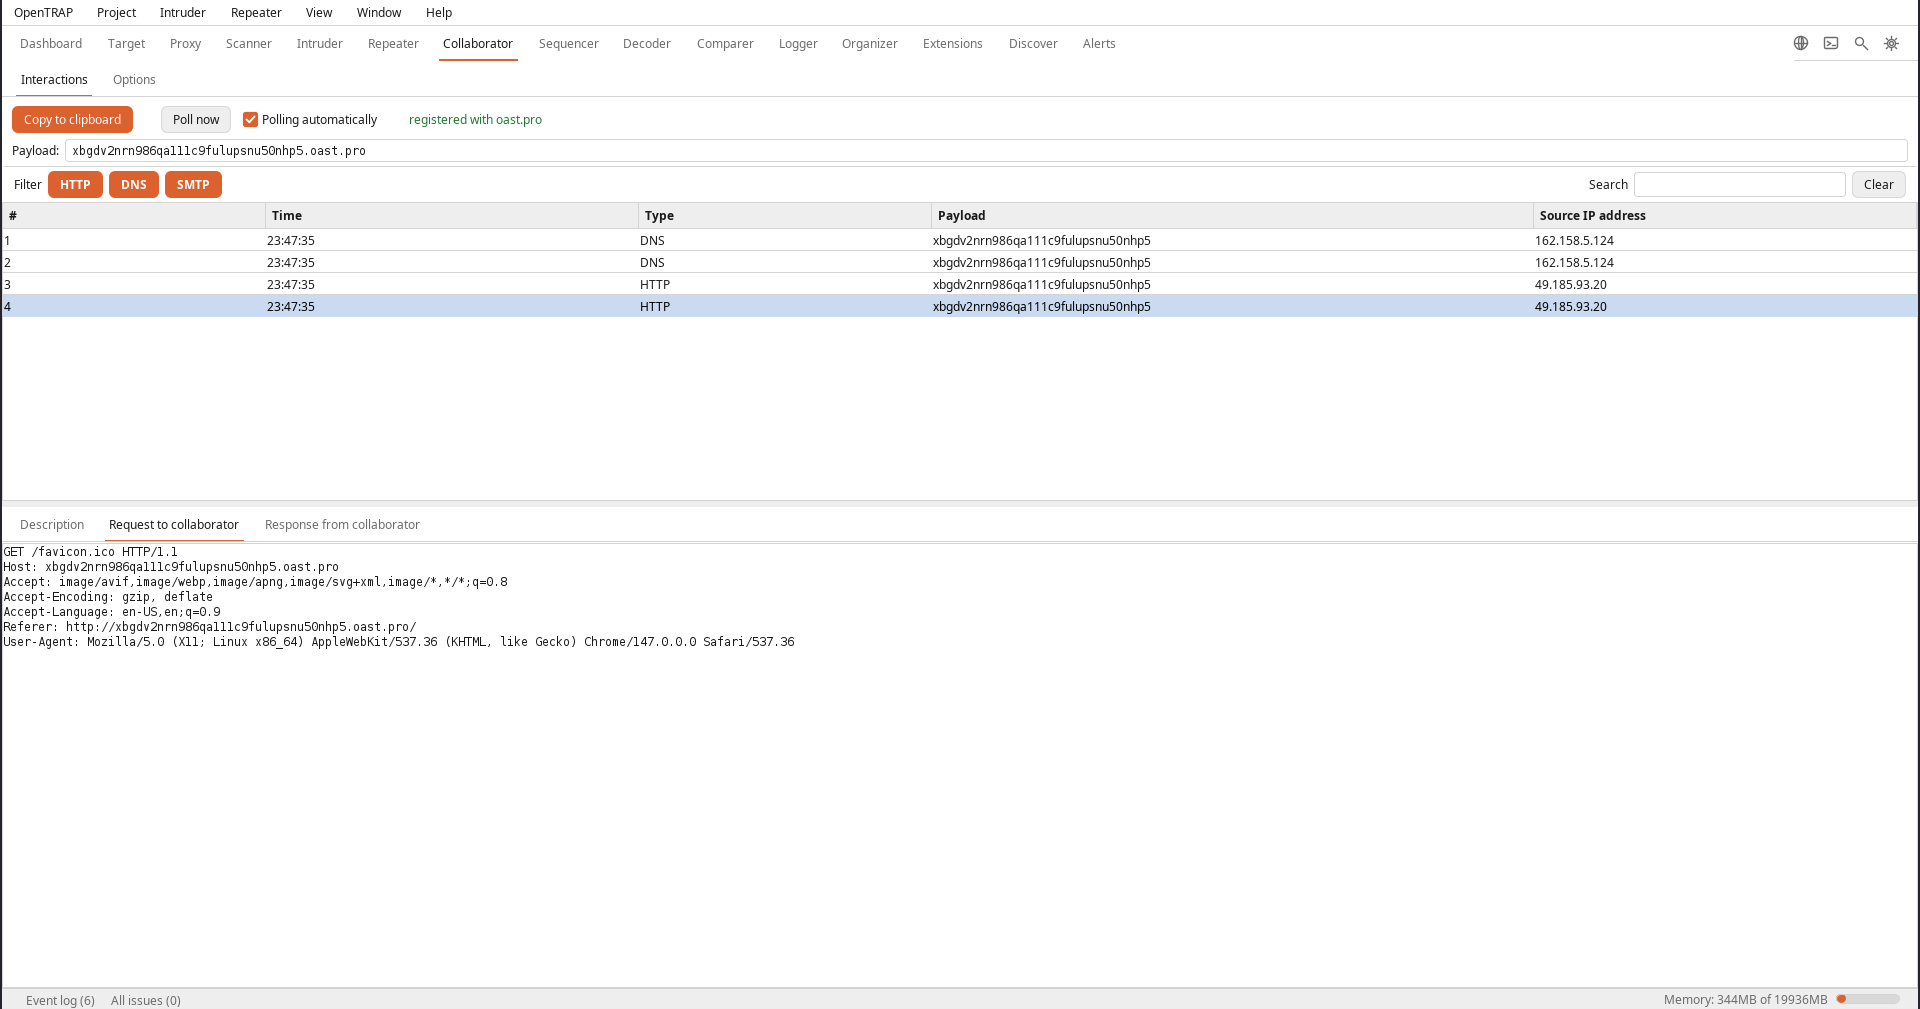
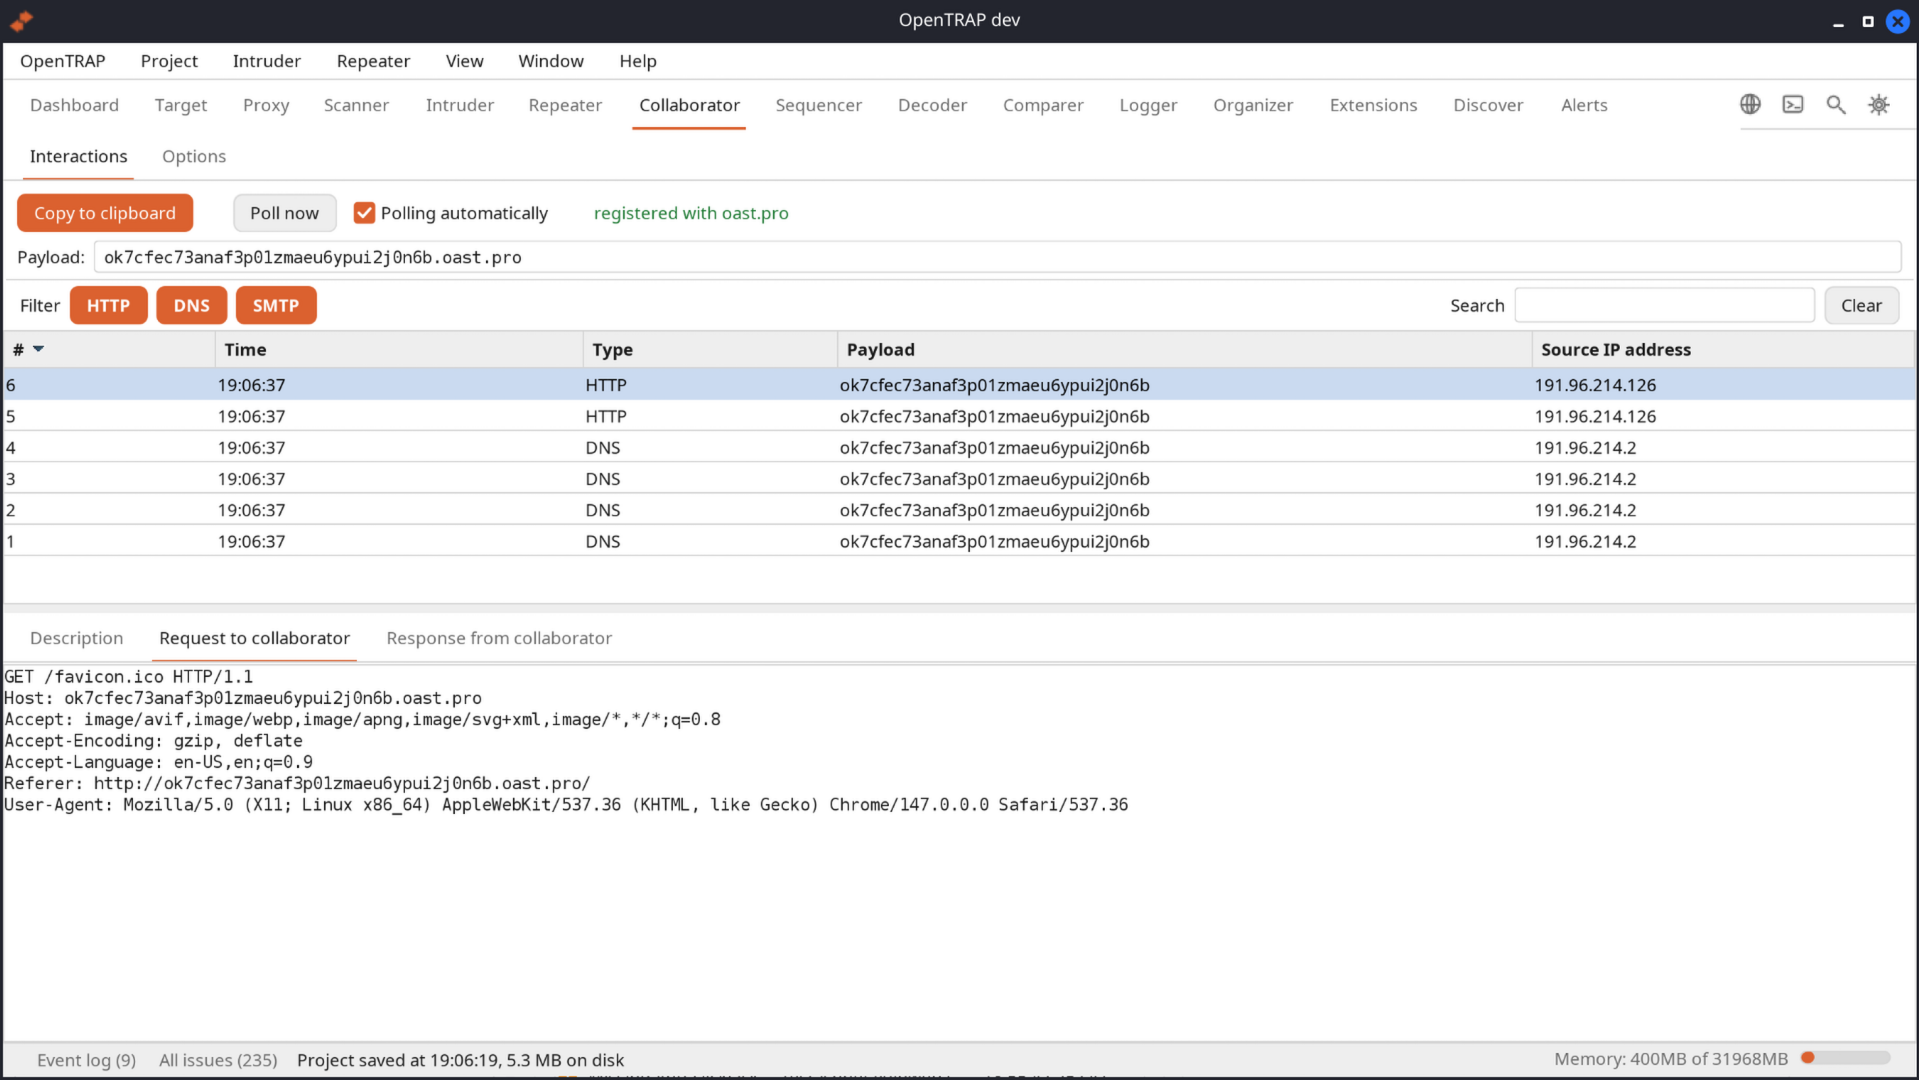
Refresh the screenshots and the feature text for this build
Six of the seven screenshots are retaken on the current build, full window
and unclipped: the dashboard with the labelled crawl-and-audit cards, the
site map with its padlocks and greyed out-of-scope hosts, the proxy history
newest first with the testing browser beside it, the Collaborator, the Logger
with audit traffic newest first, and the Decoder. The README and the site
describe the padlocks, the newest-first histories and the scope-bound engine.

diff --git a/docs/index.md b/docs/index.md
@@ -43,6 +43,7 @@ title: OpenTRAP
       <li><span class="ic">{% include check.html %}</span><span><b>Guided from the start</b>Open or create a project at launch, then drive crawl-and-audit scans through a step-by-step wizard.</span></li>
       <li><span class="ic">{% include check.html %}</span><span><b>Scan configurations that fit the job</b>Pick a tier from Lightweight to Deep, or build a Custom scan with full control over crawl depth, attack strength and which inputs are tested.</span></li>
       <li><span class="ic">{% include check.html %}</span><span><b>Scope that keeps the noise out</b>Add a host or path to scope from the site map and the proxy offers to stop recording everything else. Filters on the site map and the history hide out-of-scope, not-found and static content, and a scan crawls and attacks only what the scope covers.</span></li>
+      <li><span class="ic">{% include check.html %}</span><span><b>Newest first, everywhere</b>Every history in the suite, from the proxy and the Logger to Intruder results and Collaborator interactions, lists the latest entry at the top.</span></li>
       <li><span class="ic">{% include check.html %}</span><span><b>One self-contained file</b>Every release is a single Linux AppImage with its own runtime and the scan engine built in. Download it, run it, scan.</span></li>
       <li><span class="ic">{% include check.html %}</span><span><b>Genuinely open</b>Licensed under the GNU AGPL v3.0, so it stays open and hackable, with no licence gate on its core capabilities.</span></li>
       <li><span class="ic">{% include check.html %}</span><span><b>Built in the open</b>A <a href="https://github.com/opentrap/opentrap/blob/main/ROADMAP.md">public roadmap</a> with a reference code for every unbuilt feature, mirrored inside the app, and every contribution merged with full credit. No AI features, by design.</span></li>
@@ -56,11 +57,11 @@ title: OpenTRAP
     <p>Every tool lives in one window. Click any screenshot for the full-size image.</p>
   </div>
   <div class="gallery">
-    <a class="card" href="images/target.png"><img src="images/target.png" alt="Target tab: site map, request list and issues with a full advisory"><div class="cap"><b>Target</b><span>Site map and scope on the left, every request in the middle, every issue on the right with its advisory, request and response beside it.</span></div></a>
+    <a class="card" href="images/target.png"><img src="images/target.png" alt="Target tab: site map with a padlock per host, request list and issues with a full advisory"><div class="cap"><b>Target</b><span>Site map with a padlock per host and out-of-scope hosts greyed, every request in the middle, every issue on the right with its advisory, request and response beside it.</span></div></a>
     <a class="card" href="images/proxy.png"><img src="images/proxy.png" alt="Proxy tab with interception and the built-in browser"><div class="cap"><b>Proxy &amp; built-in browser</b><span>One click opens a bundled Chromium, already routed through the proxy and trusting its certificate authority. No certificate to install.</span></div></a>
     <a class="card" href="images/collaborator.png"><img src="images/collaborator.png" alt="Collaborator tab with captured out-of-band interactions"><div class="cap"><b>Collaborator</b><span>Generate a payload and watch the out-of-band DNS and HTTP callbacks arrive, each on record, so blind vulnerabilities are proven, not guessed.</span></div></a>
     <a class="card" href="images/intruder.png"><img src="images/intruder.png" alt="Intruder tab with a finished sniper attack and its results window"><div class="cap"><b>Intruder</b><span>Mark positions, pick an attack type, drive a payload set through them. The attack window shows status, length and timing per request.</span></div></a>
-    <a class="card" href="images/logger.png"><img src="images/logger.png" alt="Logger tab with a filterable table of every request"><div class="cap"><b>Logger</b><span>A complete, filterable record of every request OpenTRAP and the scan engine make, tagged by the tool that sent it. Nothing happens behind your back.</span></div></a>
+    <a class="card" href="images/logger.png"><img src="images/logger.png" alt="Logger tab with a filterable table of every request"><div class="cap"><b>Logger</b><span>A complete, filterable record of every request OpenTRAP and the scan engine make, newest first and tagged by the tool that sent it. Nothing happens behind your back.</span></div></a>
     <a class="card" href="images/decoder.png"><img src="images/decoder.png" alt="Decoder tab decoding a URL-encoded value"><div class="cap"><b>Decoder</b><span>URL, Base64, hex and hash transforms in either direction, or let smart decode work out the encoding for you.</span></div></a>
   </div>
 </div></section>

diff --git a/README.md b/README.md
@@ -99,7 +99,7 @@ licence.
 <tr>
 <td width="50%" valign="top">
 <a href="docs/images/target.png"><img src="docs/images/target.png" alt="Target tab: site map tree, request list, and the issues found with a full advisory for a reflected cross-site scripting finding"></a>
-<br><sub><b>Target</b><br>Site map, scope and every issue found, with the advisory, request and response beside it.</sub>
+<br><sub><b>Target</b><br>Site map with a padlock per host (open for http, closed for https), out-of-scope hosts greyed, and every issue found with the advisory, request and response beside it.</sub>
 </td>
 <td width="50%" valign="top">
 <a href="docs/images/proxy.png"><img src="docs/images/proxy.png" alt="Proxy tab with interception, and the built-in Chromium browser opened from it, routed through the proxy and showing the certificate authority page"></a>
@@ -119,7 +119,7 @@ licence.
 <tr>
 <td width="50%" valign="top">
 <a href="docs/images/logger.png"><img src="docs/images/logger.png" alt="Logger tab with a filterable table of every request made by the crawl, with request and response viewers below"></a>
-<br><sub><b>Logger</b><br>A complete, filterable record of every request OpenTRAP and the scan engine make.</sub>
+<br><sub><b>Logger</b><br>A complete, filterable record of every request OpenTRAP and the scan engine make, newest first and tagged by the tool that sent it.</sub>
 </td>
 <td width="50%" valign="top">
 <a href="docs/images/decoder.png"><img src="docs/images/decoder.png" alt="Decoder tab with a URL-encoded path-traversal string decoded to plain text"></a>
@@ -190,6 +190,7 @@ exposing crawl depth, attack strength, the input points tested and more.
 - **Projects that open in seconds** - a saved project with tens of thousands of requests loads in a few seconds without freezing the window.
 - **Projects that stay small** - the crawl, your own traffic and every finding are kept in full; the audit's thousands of probe requests are kept as headers only, so a scan-heavy project is a fraction of the size. Save a copy with in-scope items only to shrink it further, and see where the bytes go under Project > Project size.
 - **Scope that keeps the noise out** - add a host or a path to scope from the site map, and the proxy offers to stop recording everything else; the site map and history filters hide out-of-scope, not-found and static content the way you would expect, and a scan crawls and attacks only what the scope covers.
+- **Newest first, everywhere** - every history in the suite, from the proxy and the Logger to Intruder results and Collaborator interactions, lists the latest entry at the top, so what just happened is always in view.
 - **One Settings dialog** - every tool's settings in one place, reachable from the gear in the top bar or from the tool itself.
 - **Built to be improved** - shaped by the people who use it, with every contribution credited and a public [roadmap](ROADMAP.md).
 
@@ -198,7 +199,7 @@ exposing crawl depth, attack strength, the input points tested and more.
 | Tool | What it does |
 |------|--------------|
 | **Dashboard** | Live tasks, issues and event log; start a scan from the guided wizard, choosing a configuration from Lightweight to Deep or a Custom one |
-| **Target** | Site map tree with a full filter, and the suite-wide scope (URL prefixes, or regex rules) that governs every tool |
+| **Target** | Site map tree with a padlock per host, a full filter, and the suite-wide scope (URL prefixes, or regex rules) that governs every tool and binds the scan engine |
 | **Proxy** | Intercept, filtered HTTP history, WebSocket capture, HTTP and WebSocket match and replace, per-host certificate authority |
 | **Scanner** | Configure the engine's active and passive rules (enable, disable, threshold) |
 | **Logger** | A complete record of every request OpenTRAP and the engine make |
